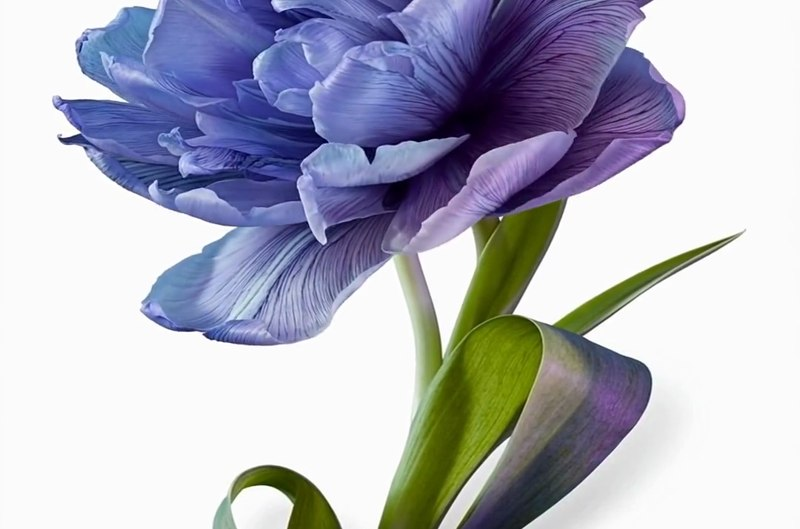
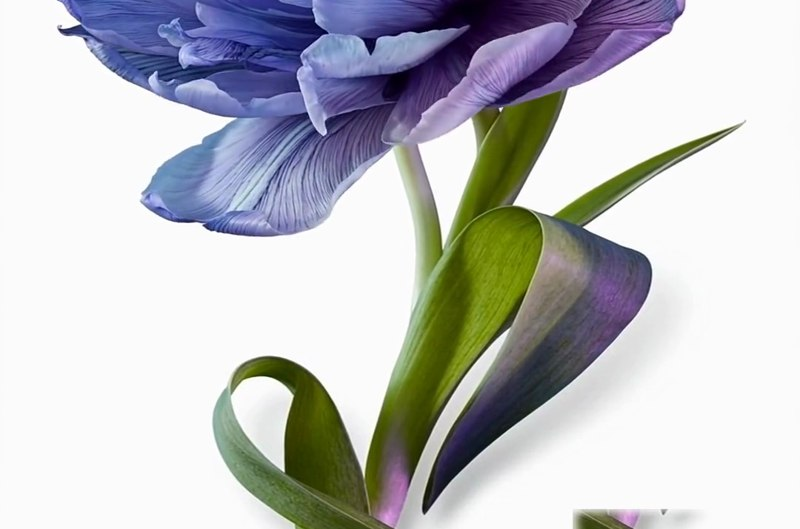
FLORA封面再下移: top268裁剪(花主体390-730全入画,避开底部黑边); 哨兵43

diff --git a/index.html b/index.html
@@ -5,7 +5,7 @@
 <script>
 /* 版本哨兵 v37：本行只存在于新版。若 URL 未带本版参数 → 跳转到带参数的新 URL，绕开一切旧缓存 */
 (function(){
-  var V='42';
+  var V='43';
   var q=location.search||'';
   if(q.indexOf('sv='+V)<0){
     location.replace(location.pathname+(q?q+'&':'?')+'sv='+V);
